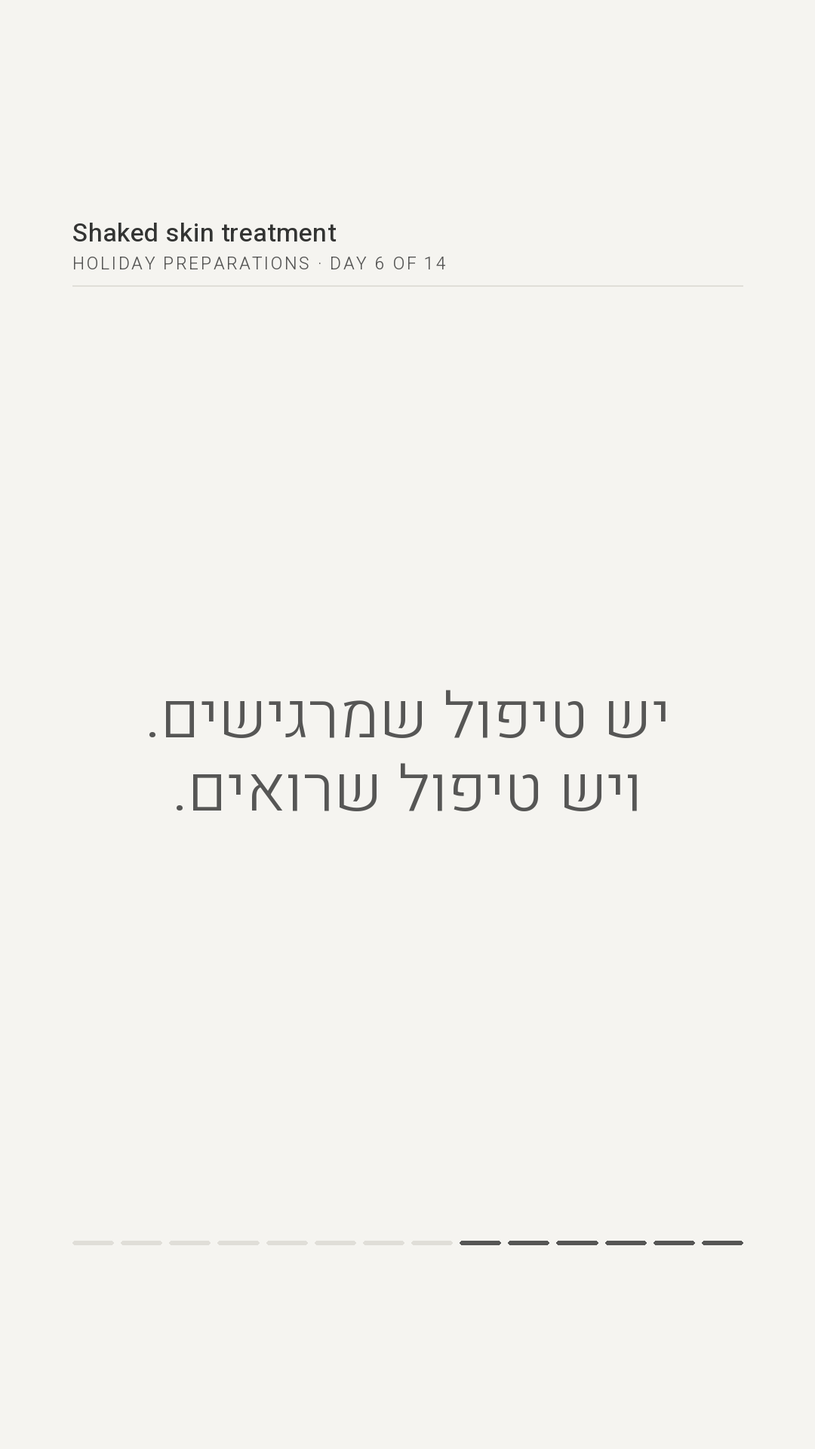
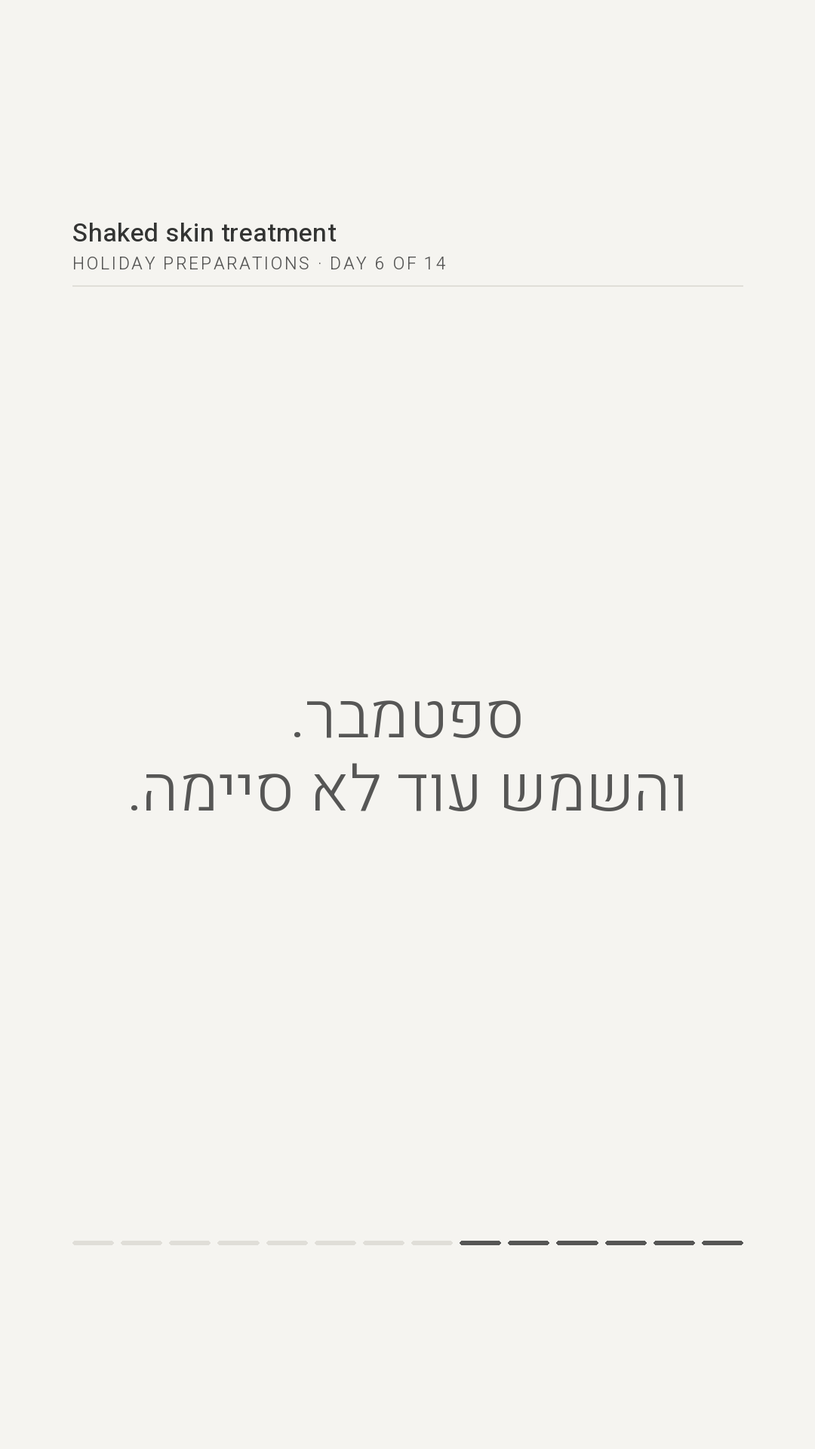
Shaked day 6 — drop the peel-damage claim, it contradicts the Dermapen
Romy caught this: the frame said redness and peeling mean the barrier was
damaged, not that the treatment worked. The Dermapen works by creating
controlled micro-channels and leaves the skin red — a client who read
that frame and then left a treatment red would conclude she had been
harmed. The claim is Shaked's own writing and is not wrong, but it
cannot stand without the controlled-injury vs damage distinction, and
drawing that distinction means detailing microneedling, which is blocked
until the contraindication list is written. So the claim comes out
rather than getting nuanced.

Day 6 is now SPF in September — the same poll mechanic, and the opposite
relationship to the treatment menu: it protects the result of a
treatment instead of casting doubt on its signs. Frame 4 says so
directly. It does not repeat day 3, which covered where SPF sits in the
routine, not whether it is still needed now.

Wrote the general rule into the brand brief: never publish a claim that
contradicts a treatment on the menu, even when the claim is true on its
own, and check "this is a sign that..." claims against TREATMENTS.md
first. Both rejected versions are archived verbatim, with the peel one
marked do-not-reuse.

Claude-Session: https://claude.ai/code/session_016gUZM1pTKD3wfdojgBe34A

Changed region(s): [[0.1833, 0.4688, 0.8556, 0.5625]]

diff --git a/content/SHAKED_SKIN/03_MEDIA/build/stories.py b/content/SHAKED_SKIN/03_MEDIA/build/stories.py
@@ -271,53 +271,67 @@ DAYS[4] = {
     ("b", "שמרי. מחר — יום חמישי.", NOTE, MUTE)],
 }
 
-# Day 6 — the strong-peel myth, carried by a poll.
-# Not a question box: the account has ~95 followers, and a question box that
-# comes back with two answers reads as ignored. A poll always looks answered.
+# Day 6 — SPF in September, carried by a poll.
+#
+# Two earlier versions were rejected and both rejections are load-bearing:
+#   1. A question box. The account has ~95 followers; a box that comes back
+#      with two answers reads as ignored, and the closing frame promised
+#      answers the next day. A poll cannot look ignored.
+#   2. The strong-peel myth ("redness means the barrier was damaged, not that
+#      it worked"). That claim collides head-on with the Dermapen, which
+#      works by controlled micro-injury and leaves the skin red — a client
+#      would read her own normal post-treatment redness as damage. The line
+#      is Shaked's own, but it cannot stand without the controlled-vs-
+#      uncontrolled distinction, and that requires detailing microneedling,
+#      which is blocked until the contraindication list exists.
+#
+# SPF has no such collision: it protects the result of a treatment rather
+# than casting doubt on it.
+#
 # Frame 2 is deliberately empty below the copy — that is where the poll
 # sticker goes. It is a native IG sticker, not an element.
 # No quotation marks anywhere: a leading straight quote on a Hebrew line
 # renders on the wrong side, same family as the digits rule.
 DAYS[6] = {
-1: [("h", "יש טיפול שמרגישים.", HEAD_C, INK, 1.2),
-    ("h", "ויש טיפול שרואים.",  HEAD_C, INK, 1.2)],
+1: [("h", "ספטמבר.",              HEAD_C, INK, 1.2),
+    ("h", "והשמש עוד לא סיימה.", HEAD_C, INK, 1.2)],
 
 2: [("h", "השאלה", HEAD_I, INK, 0.4),
     ("gap", 34),
     ("rule", 34, 120),
     ("gap", 30),
-    ("b", "מה שווה לך יותר —", BODY, INK),
-    ("b", "להרגיש שקרה משהו,", BODY, INK),
-    ("b", "או לראות שקרה משהו?", BODY, INK)],
+    ("b", "עכשיו כשהקיץ נגמר —", BODY, INK),
+    ("b", "את עדיין מורחת מסנן", BODY, INK),
+    ("b", "כל בוקר?", BODY, INK)],
 
-3: [("h", "המיתוס", HEAD_I, INK, 0.4),
+3: [("h", "הקרינה", HEAD_I, INK, 0.4),
     ("gap", 34),
     ("rule", 34, 120),
     ("gap", 30),
-    ("b", "ככל שהפילינג חזק יותר,", BODY, INK),
-    ("b", "כך התוצאה טובה יותר.", BODY, INK),
+    ("b", "לא נעלמת עם סוף אוגוסט.", BODY, INK),
     ("gap", 18),
-    ("b", "זה לא נכון.", BODY, INK)],
+    ("b", "גם בספטמבר.", BODY, INK),
+    ("b", "גם בעננים.", BODY, INK)],
 
-4: [("h", "למה", HEAD_I, INK, 0.4),
+4: [("h", "למה עכשיו", HEAD_I, INK, 0.4),
     ("gap", 34),
     ("rule", 34, 120),
     ("gap", 30),
-    ("b", "עור אדום וקלוף הוא לא", BODY, INK),
-    ("b", "סימן שזה עבד.", BODY, INK),
+    ("b", "כל מה שאת עושה לעור", BODY, INK),
+    ("b", "לקראת החג נמדד בחודשים.", BODY, INK),
     ("gap", 18),
-    ("b", "זה סימן שמחסום העור נפגע —", BODY, INK),
-    ("b", "והוא זה שאחראי על הזוהר.", BODY, INK)],
+    ("b", "מסנן הוא מה שמונע", BODY, INK),
+    ("b", "מהעבודה הזאת להימחק.", BODY, INK)],
 
 5: [("h", "יום שישי", HEAD_I, INK, 0.4),
     ("gap", 34),
     ("rule", 34, 120),
     ("gap", 30),
-    ("b", "עוצמה היא לא תוצאה.",           SUM, INK),
-    ("b", "אדמומיות היא נזק, לא הוכחה.",  SUM, INK),
+    ("b", "הקרינה לא לוקחת חופש",      SUM, INK),
+    ("b", "בספטמבר.",                  SUM, INK),
     ("gap", 18),
-    ("b", "שלחי את זה למי שמתכננת",       SUM, INK),
-    ("b", "פילינג לפני החג.",             SUM, INK),
+    ("b", "שלחי את זה למי שהחביאה",   SUM, INK),
+    ("b", "את המסנן עם הבגד ים.",     SUM, INK),
     ("gap", 44),
     ("rule", 34, 120),
     ("gap", 20),

diff --git a/content/SHAKED_SKIN/05_CALENDAR/SERIES_מתכוננים-לחגים-14-יום.md b/content/SHAKED_SKIN/05_CALENDAR/SERIES_מתכוננים-לחגים-14-יום.md
@@ -117,52 +117,57 @@ HOLIDAY PREPARATIONS · DAY 1 OF 14
 **אין כאן מספר טיפולים ואין הבטחת תוצאה** — הפריימים מדברים על טווחי זמן ביולוגיים
 בלבד, לא על מה שטיפול מסוים ישיג.
 
-## יום 6 — פילינג חזק יותר ✅ בנוי
+## יום 6 — מסנן בספטמבר ✅ בנוי
 
 **Canva:** https://www.canva.com/design/DAHUaeozTMw/edit — `DAHUaeozTMw` · 5 עמודים · 1080×1920
 **קבצים מקומיים:** `content/SHAKED_SKIN/03_MEDIA/DAY06/shaked-day06-01..05.png`
 
 | פריים | תוכן |
 |---|---|
-| 1 | יש טיפול שמרגישים. ויש טיפול שרואים. |
-| 2 | **השאלה** — מה שווה לך יותר: להרגיש שקרה משהו, או לראות שקרה משהו? ← **סקר** |
-| 3 | **המיתוס** — ככל שהפילינג חזק יותר, כך התוצאה טובה יותר. זה לא נכון. |
-| 4 | **למה** — עור אדום וקלוף הוא לא סימן שזה עבד. זה סימן שמחסום העור נפגע — והוא זה שאחראי על הזוהר. |
-| 5 | **יום שישי** — עוצמה היא לא תוצאה. אדמומיות היא נזק, לא הוכחה. + שלחי את זה למי שמתכננת פילינג לפני החג. |
+| 1 | ספטמבר. והשמש עוד לא סיימה. |
+| 2 | **השאלה** — עכשיו כשהקיץ נגמר, את עדיין מורחת מסנן כל בוקר? ← **סקר** |
+| 3 | **הקרינה** — לא נעלמת עם סוף אוגוסט. גם בספטמבר. גם בעננים. |
+| 4 | **למה עכשיו** — כל מה שאת עושה לעור לקראת החג נמדד בחודשים. מסנן הוא מה שמונע מהעבודה הזאת להימחק. |
+| 5 | **יום שישי** — הקרינה לא לוקחת חופש בספטמבר. + שלחי את זה למי שהחביאה את המסנן עם הבגד ים. |
 
 **בהעלאה — פריים 2:** מניחים **סקר** בחצי התחתון, שנשאר ריק בדיוק בשביל זה.
-שתי האפשרויות: **להרגיש · לראות**. אין תשובה נכונה — זה סקר דעה, לא חידון, ולכן
-אף אחת לא מהססת לענות.
+שתי האפשרויות: **כן · פחות**. "פחות" ולא "לא" — כדי שאף אחת לא תצטרך להודות
+בפומבי שהפסיקה לגמרי.
 
-### למה זה סקר ולא תיבת שאלות
+### שתי גרסאות קודמות נדחו — ושתי הדחיות שוות תיעוד
 
-**לחשבון יש כ-95 עוקבות.** תיבת שאלות בגודל כזה מחזירה שתיים־שלוש שאלות במקרה
-הטוב, ופריים שמבטיח "מחר אני עונה על הכול" נשבר בפומבי מול מי שכן כתבה. **סקר לא
-יכול להיראות מתעלמים ממנו** — גם חמש נקישות מציירות בר מלא — והוא עולה נקישה אחת
-במקום הקלדה בפומבי. זה המנגנון הנכון בקנה מידה הזה.
+**גרסה 1 — תיבת שאלות.** נדחתה כי **לחשבון כ-95 עוקבות**. תיבה בגודל כזה חוזרת עם
+שתיים־שלוש שאלות, נראית כאילו התעלמו ממנה, והפריים האחרון הבטיח "מחר אני עונה על
+הכול" — הבטחה שנשברת בפומבי מול מי שכן כתבה. **סקר לא יכול להיראות מתעלמים ממנו.**
 
-התיבה תחזור כשיהיה קהל שמצדיק אותה. הרעיון והקופי שמורים בגיבוי הקאנבה.
+**גרסה 2 — מיתוס הפילינג החזק.** נדחתה כי היא **סותרת את הדרמה-פן**. הפריים אמר
+"עור אדום וקלוף... זה סימן שמחסום העור נפגע", והדרמה-פן עובד ביצירת מיקרו-תעלות
+מבוקרות שמשאירות אדמומיות צפויה. לקוחה שקוראת את הפריים ויוצאת אדומה מהטיפול
+מבינה שנפגעה. הטענה עצמה מהחומר של שקד (`DAHTtayM4q0` עמוד 4) ואיננה שגויה — אבל
+היא לא יכולה לעמוד בלי ההבחנה בין **פציעה מבוקרת** לבין **נזק**, וההבחנה הזאת
+מחייבת לפרט מיקרונידלינג. זה חסום עד שתיכתב רשימת ההתוויות נגד.
 
-### מה מחליף את האינטראקציה שאיבדנו
+**הכלל שנגזר מזה נרשם ב-`00_BRAND/BRAND_BRIEF.md` סעיף 7.**
 
-**שיתוף במקום תגובה.** "שלחי את זה למי שמתכננת פילינג לפני החג" הוא המנוף האמיתי
-ב-95 עוקבות: תגובה מוסיפה מדד, שיתוף מוסיף עוקבת. הבקשה ספציפית בכוונה — לא
-"שתפי", אלא בדיוק למי.
+### למה מסנן קרינה הוא הנושא הנכון להחלפה
 
-**וזה לא מבקש מאף אחת להיחשף.** תיבת שאלות דורשת להודות בפומבי במשהו בעור; שיתוף
-בפרטי לחברה לא דורש כלום.
+**אין לו התנגשות — הוא הפוך.** תוכן על מסנן **שומר על תוצאת הטיפול** במקום להטיל
+ספק בסימנים שלו. פריים 4 אומר את זה מפורשות: מה שנעשה לקראת החג נמדד בחודשים,
+ומסנן הוא מה שמונע מהעבודה להימחק. זה מחזק את הטיפולים, לא מחליף אותם.
+
+**והוא לא חוזר על יום 3.** יום 3 אמר **איפה** מסנן יושב בשגרה (אחרון, אחרי הלחות).
+יום 6 שואל **אם בכלל** עדיין מורחים אותו עכשיו. שאלה אחרת לגמרי, ועונתית — זה
+בדיוק השבוע שבו מפסיקים.
 
 ### הבסיס העובדתי
 
-שני המשפטים בפריימים 3 ו-4 הם **מילה במילה מהחומר של שקד עצמה** —
-`DAHTtayM4q0` עמוד 4. לא המצאתי טענה קלינית, ואין כאן שם של טיפול ספציפי, מחיר,
+פריים 3 הוא מילה במילה מהחומר של שקד — `DAHTtayM4q0` עמוד 8. אין שם טיפול, מחיר
 או הבטחת תוצאה.
 
 ### מה זה עשה ליום 7
 
-יום 7 היה "התשובות" — הוא היה תלוי לגמרי בתיבה. **הוא נמחק כיחידה.** הפריים האחרון
-של יום 6 אומר רק "מחר — יום שביעי", בלי להבטיח תשובות. מה שיירד מחר הוא היחידה
-הבאה בתור, לא תשובות לשאלות שלא נשאלו.
+יום 7 היה "התשובות" — הוא היה תלוי לגמרי בתיבת השאלות שנדחתה. **הוא נמחק כיחידה.**
+הפריים האחרון אומר רק "מחר — יום שביעי", בלי להבטיח תשובות.
 
 ## הפקת הקבצים — `03_MEDIA/build/stories.py`
 
@@ -200,7 +205,7 @@ cd content/SHAKED_SKIN/03_MEDIA/build && python3 stories.py
 | 3 | 1.9 | הסדר הנכון — באיזה סדר מורחים | ✅ בנוי |
 | 4 | 2.9 | כמה זמן באמת לוקח — ציר הזמן | ✅ בנוי |
 | 5 | — | ניקוי עור: מה זה כן ומה זה לא | ⏭ דולג |
-| 6 | 6.9 | פילינג חזק יותר — מיתוס + סקר | ✅ בנוי |
+| 6 | 6.9 | מסנן בספטמבר — סקר | ✅ בנוי |
 | 7 | — | התשובות | ❌ נמחק — היה תלוי בתיבת השאלות |
 | 8+9 | 7.9 | שגרת בוקר וערב — מאוחד | לכתוב |
 | 10 | 8.9 | מה **לא** לעשות בשבוע שלפני אירוע | `דורש עובדות ממך` |
@@ -226,7 +231,7 @@ cd content/SHAKED_SKIN/03_MEDIA/build && python3 stories.py
 
 | תאריך | יחידה |
 |---|---|
-| 6.9 | יום 6 — פילינג חזק יותר ✅ מוכן |
+| 6.9 | יום 6 — מסנן בספטמבר ✅ מוכן |
 | 7.9 | **8+9 מאוחדים** — שגרת בוקר וערב |
 | 8.9 | יום 10 — מה לא לעשות בשבוע שלפני אירוע |
 | 9.9 | יום 11 — איפור על עור מטופל |

diff --git a/content/SHAKED_SKIN/05_CALENDAR/CANVA_ARCHIVE.md b/content/SHAKED_SKIN/05_CALENDAR/CANVA_ARCHIVE.md
@@ -103,24 +103,35 @@ https://www.canva.com/design/DAHTtayM4q0/edit
 
 | עמוד | תוכן |
 |---|---|
-| 1 | יש טיפול שמרגישים. · ויש טיפול שרואים. |
-| 2 | **השאלה** · מה שווה לך יותר — · להרגיש שקרה משהו, · או לראות שקרה משהו? |
-| 3 | **המיתוס** · ככל שהפילינג חזק יותר, · כך התוצאה טובה יותר. · זה לא נכון. |
-| 4 | **למה** · עור אדום וקלוף הוא לא · סימן שזה עבד. · זה סימן שמחסום העור נפגע — · והוא זה שאחראי על הזוהר. |
-| 5 | **יום שישי** · עוצמה היא לא תוצאה. · אדמומיות היא נזק, לא הוכחה. · שלחי את זה למי שמתכננת · פילינג לפני החג. · מחר — יום שביעי. |
+| 1 | ספטמבר. · והשמש עוד לא סיימה. |
+| 2 | **השאלה** · עכשיו כשהקיץ נגמר — · את עדיין מורחת מסנן · כל בוקר? |
+| 3 | **הקרינה** · לא נעלמת עם סוף אוגוסט. · גם בספטמבר. · גם בעננים. |
+| 4 | **למה עכשיו** · כל מה שאת עושה לעור · לקראת החג נמדד בחודשים. · מסנן הוא מה שמונע · מהעבודה הזאת להימחק. |
+| 5 | **יום שישי** · הקרינה לא לוקחת חופש · בספטמבר. · שלחי את זה למי שהחביאה · את המסנן עם הבגד ים. · מחר — יום שביעי. |
 
-**עמוד 2 ריק בחצי התחתון בכוונה** — שם מונח **הסקר** (להרגיש · לראות). סטיקר
-נייטיב, לא אלמנט, ולכן לא יכול לשבת בקובץ.
+**עמוד 2 ריק בחצי התחתון בכוונה** — שם מונח **הסקר** (כן · פחות). סטיקר נייטיב,
+לא אלמנט, ולכן לא יכול לשבת בקובץ.
 
-**גרסה קודמת של יום 6 — תיבת שאלות — נדחתה ולא פורסמה.** הסיבה: לחשבון כ-95
-עוקבות, ותיבה שחוזרת עם שתי שאלות נראית כאילו התעלמו ממנה. הקופי שמור כאן למקרה
-שהתיבה תחזור כשיהיה קהל שמצדיק אותה:
+#### שתי גרסאות קודמות של יום 6 — נדחו, לא פורסמו
+
+**גרסה 1 — תיבת שאלות.** נדחתה: כ-95 עוקבות, ותיבה שחוזרת עם שתי שאלות נראית
+כאילו התעלמו ממנה. הקופי שמור למקרה שהתיבה תחזור:
 
 > **1** היום אני לא מלמדת. · היום אני שואלת.
 > **2 למה היום** · החג מתקרב, וכל אחת מחליטה עכשיו מה היא עושה עם העור. · עדיף להחליט עם תשובה.
 > **3 אין שאלה קטנה** · פצעון אחד שחוזר. · כתם שלא יורד. · משהו שמביך לשאול בקול. · הכול נחשב.
 > **4 השאלה** · מה הכי מטריד אותך בעור עכשיו? · חוץ ממני אף אחד לא רואה מי שאלה.
 > **5 יום שישי** · היום אין כלל. יש שאלה. · כתבי לי בתיבה. · מחר — יום שביעי, אני עונה על הכול.
+
+**גרסה 2 — מיתוס הפילינג החזק.** נדחתה: **סותרת את הדרמה-פן**, שעובד ביצירת
+מיקרו-תעלות מבוקרות ומשאיר אדמומיות צפויה. **אין לשחזר את הקופי הזה** לפני שתיכתב
+רשימת ההתוויות נגד ותתאפשר ההבחנה בין פציעה מבוקרת לנזק:
+
+> **1** יש טיפול שמרגישים. · ויש טיפול שרואים.
+> **2 השאלה** · מה שווה לך יותר — להרגיש שקרה משהו, או לראות שקרה משהו?
+> **3 המיתוס** · ככל שהפילינג חזק יותר, כך התוצאה טובה יותר. · זה לא נכון.
+> **4 למה** · עור אדום וקלוף הוא לא סימן שזה עבד. · זה סימן שמחסום העור נפגע — והוא זה שאחראי על הזוהר.
+> **5 יום שישי** · עוצמה היא לא תוצאה. · אדמומיות היא נזק, לא הוכחה. · שלחי את זה למי שמתכננת פילינג לפני החג.
 
 ### חומר גלם לימים 4–7 — `DAHTtayM4q0`
 

diff --git a/content/SHAKED_SKIN/00_BRAND/BRAND_BRIEF.md b/content/SHAKED_SKIN/00_BRAND/BRAND_BRIEF.md
@@ -97,6 +97,9 @@
 ## 7. מגבלות משפטיות ואתיות
 
 - הצהרות אסורות: אבחון או הנחיה רפואית; הבטחת ריפוי או תוצאה; טענה שמוצר/טיפול מתאים לכולן; טענות בריאותיות ללא מקור; הצגת תוצאה חריגה כאופיינית; השוואת לפני/אחרי בתנאי צילום שונים או לאחר ריטוש מטעה.
+- **אין לפרסם תוכן שסותר טיפול שנמצא בתפריט — גם אם הטענה נכונה כשלעצמה.** התגלה ביום 6 של סדרת החגים (06.09.2026): פריים אמר "עור אדום וקלוף... זה סימן שמחסום העור נפגע". הטענה מהחומר של שקד עצמה, אבל **הדרמה-פן עובד ביצירת מיקרו-תעלות מבוקרות, ואדמומיות אחריו צפויה** — לקוחה שקראה את הפריים ויצאה אדומה הייתה מבינה שנפגעה. לפני כל טענה על "מה זה סימן ש...", לבדוק מול `01_OFFERS/TREATMENTS.md` שאף טיפול בתפריט לא נראה בדיוק ככה.
+  - **ההבחנה שמצילה את הטענה — פציעה מבוקרת מול נזק — חסומה**, כי היא מחייבת לפרט מיקרונידלינג, וזה אסור עד שתיכתב רשימת ההתוויות נגד. עד אז הטענה כולה יורדת מהתוכן.
+  - **בטוח יותר:** תוכן ששומר על תוצאת הטיפול (מסנן קרינה, שגרה, תזמון) במקום תוכן שמטיל ספק בסימנים של טיפול.
 - אישורי לקוחות: `UNKNOWN — יש ליצור טבלת הסכמות עם שם הלקוחה, סוג המדיה, ערוצי הפרסום, תאריך האישור ותוקף/מגבלות. אין לפרסם ללא תיעוד.`
 - זכויות שימוש בתמונות ובסרטונים: מותר להשתמש רק במדיה מקורית של העסק או במדיה עם רישיון/אישור מתועד. אין להניח שתמונה שנשלחה בוואטסאפ מאושרת לפרסום. `המיקום הנוכחי של התיעוד: UNKNOWN.`
 - דברים שדורשים אישור של Romy/Shaked לפני יציאה: מחירים ומבצעים; המלצות מוצר; אחוזי חומרים פעילים; טענות רפואיות או מקצועיות רגישות; תמונות לפני/אחרי; עדויות לקוחות; התוויות נגד; קישורים ופרטי קשר; תוכן הכולל לקוחה מזוהה.
